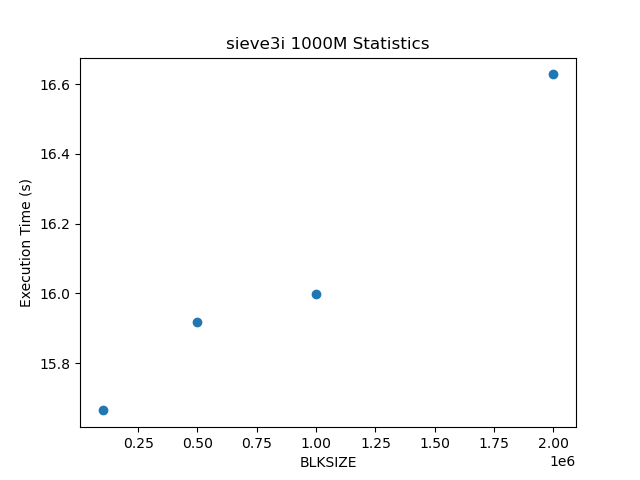
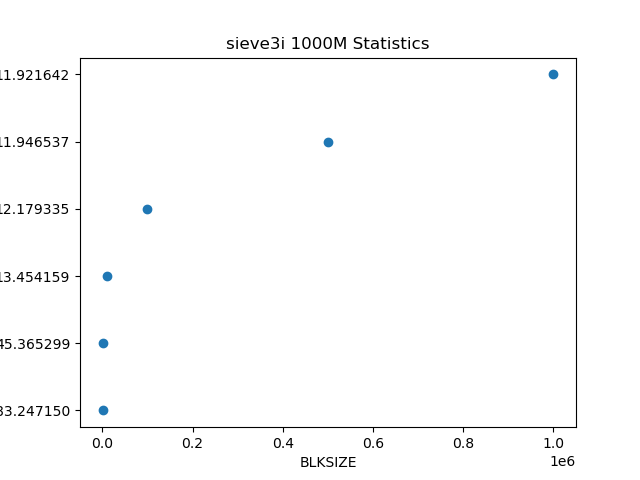
sieve3 working good but not good enough

diff --git a/assignments/3/sieve4.c b/assignments/3/sieve4.c
@@ -14,9 +14,21 @@
 #include <math.h>
 #include "timer.h"
 
+#define minn(x,y) (((x) <= (y)) ? (x) : (y))
+
+int FMIB(long index, long prime) {
+    if (index ==  prime)
+        return index + prime;
+    long remainder = index % prime;
+    if (remainder)
+        return index - remainder + prime;
+    return index;
+}
+
 int main(int argc, char **argv) {
 
    long N  = 100;
+   long BLKSIZE = 100000;
 
    char *mark;
 
@@ -30,22 +42,12 @@ int main(int argc, char **argv) {
    double time;
 
    if ( argc > 1 ) N  = atoi(argv[1]);
-
-   // N will get cut in half to save memory
-   long problem_size = N;
+   if ( argc > 2 ) BLKSIZE = atoi(argv[2]);
 
    /* Start Timer */
 
    initialize_timer ();
    start_timer();
-
-   // Only store odds
-   // Half memory if N % 2 == 0
-   // Half memory +1 if N is odd
-   if (N % 2 == 0)
-       N = (N/2);
-   else
-       N = (N/2 + 1);
 
    // +1 for null character 
    size = (N+1)*sizeof(char);
@@ -58,43 +60,45 @@ int main(int argc, char **argv) {
    // We want to skip the value 1 (results start from 2)
    mark[0] = 1;
 
-   count = 1;
-   long sqrt_p_size = sqrt(problem_size);
-   for (int k = 3; k <= sqrt_p_size; k += 2) { // Iterate to sqrt(n)
+   long sqrt_N = sqrt(N);
+   for (long k = 3; k <= sqrt_N;) { // Iterate to sqrt(n)
         // We only want to find primes less than sqrt(N)
         // We stride by 2*k because odd + odd = even
         // And odd + even = odd, thereby skipping all even multiples
         // All primes are odd aside from 2
         #pragma omp parallel for
-        for (int prime = k*k; prime <= sqrt_p_size; prime += 2*k) {
-            mark[prime/2] = 1;
-            ++count;
-        }
+        for (long prime = k*k; prime <= sqrt_N; prime += 2*k) mark[prime] = 1;
         
         // Get next odd prime (unmarked value)
-        while (mark[k/2]) k += 2; 
+        k += 2;
+        while (mark[k]) k += 2;
    }
 
 
    /*number of primes*/
+   long primes[sqrt_N]; // (int *) malloc(count * sizeof(int));
+   primes[0] = 2; // Our algorithm doesn't include 2 because it's even
    // Count starts from 1 to include 2
    // i starts from 3 so that we only count odds
-   printf("There are %ld primes for sqrt(N).\n", count);
-   int* primes = (int *) malloc(count * sizeof(int));
-   primes[0] = 2; // Our algorithm doesn't include 2 because it's even
-
    count = 1;
-   for(i = 3; i <= sqrt_p_size; i+=2){
-        if(mark[i/2] == 0) {
-        	printf("\t prime %ld\n", i );
-            primes
+   for(i = 3; i <= sqrt_N; i+=2){
+        if(mark[i] == 0) {
+            primes[count] = i;
+            count++;
         }
    }
 
-   
-   /* end of preamble */
 
-   free(primes);
+   /* end of preamble */
+   int prime;
+   for (int j = 0; j < count; j++) {
+       prime = primes[j];
+       for (int ii = sqrt_N; ii < N; ii += BLKSIZE) {
+           for (int i = FMIB(ii, prime); i <= minn(ii+BLKSIZE, N); i += prime) {
+               mark[i] = 1;
+           }
+       }
+   } 
 
    /* stop timer */
    stop_timer();
@@ -103,21 +107,18 @@ int main(int argc, char **argv) {
    /*number of primes*/
    // Count and i are magic numbers
    count = 1;
-   for(i = 2; i <= N; i+=1){
-        if(mark[i] == 0) {
-        	//  printf("\t prime %ld  \n",i );
-        	++count;
-        }
-
+   for(i = 3; i <= N; i+=2){
+        if(mark[i] == 0) ++count;
    }
-   printf("There are %ld primes less than or equal to %ld\n", count, problem_size);
+
+   printf("There are %ld primes less than or equal to %ld\n", count, N);
    /* print results */
    printf("First three primes:");
    j = 1;
    printf("%d ", 2);
-   for ( i=3 ; i <= problem_size && j < 10; i+=2 ) {
-      if (mark[i/2]==0){
-            printf("%ld ", i);
+   for ( i=3 ; i <= N && j < 3; i+=2 ) {
+      if (mark[i]==0){
+            printf("%ld, ", i);
             ++j;
       }
    }
@@ -125,9 +126,9 @@ int main(int argc, char **argv) {
 
    printf("Last three primes:");
    j = 0;
-   n=(problem_size%2?problem_size:problem_size-1);
+   n=(N%2?N:N-1);
    for (i = n; i > 1 && j < 3; i-=2){
-     if (mark[i/2]==0){
+     if (mark[i]==0){
         printf("%ld ", i);
         j++;
      }

diff --git a/assignments/3/sieve3.c b/assignments/3/sieve3.c
@@ -28,7 +28,7 @@ int FMIB(long index, long prime) {
 int main(int argc, char **argv) {
 
    long N  = 100;
-   long BLKSIZE = 10;
+   long BLKSIZE = 100000;
 
    char *mark;
 
@@ -76,12 +76,10 @@ int main(int argc, char **argv) {
 
 
    /*number of primes*/
-   long primes[sqrt_N]; // (int *) malloc(count * sizeof(int));
-   primes[0] = 2; // Our algorithm doesn't include 2 because it's even
-   // Count starts from 1 to include 2
-   // i starts from 3 so that we only count odds
-   count = 1;
-   for(i = 3; i <= sqrt_N; i+=2){
+   long primes[sqrt_N]; 
+   primes[0] = 2;                   // Don't include 2 because it's even
+   count = 1;                       // Count starts from 1 to account for  2
+   for(i = 3; i <= sqrt_N; i+=2){   // i starts from 3 as we only count odds
         if(mark[i] == 0) {
             primes[count] = i;
             count++;
@@ -90,11 +88,11 @@ int main(int argc, char **argv) {
 
 
    /* end of preamble */
-   int prime;
-   for (int j = 0; j < count; j++) {
-       prime = primes[j];
-       for (int ii = sqrt_N; ii < N; ii += BLKSIZE) {
-           for (int i = FMIB(ii, prime); i <= minn(ii+BLKSIZE, N); i += prime) {
+   long prime;
+   for (int ii = sqrt_N; ii < N; ii += BLKSIZE) {
+        for (int j = 0; j < count; j++) {
+           prime = primes[j];
+           for (long i = FMIB(ii, prime); i <= minn(ii+BLKSIZE, N); i += prime) {
                mark[i] = 1;
            }
        }
@@ -115,10 +113,10 @@ int main(int argc, char **argv) {
    /* print results */
    printf("First three primes:");
    j = 1;
-   printf("%d, ", 2);
+   printf("%d ", 2);
    for ( i=3 ; i <= N && j < 3; i+=2 ) {
       if (mark[i]==0){
-            printf("%ld, ", i);
+            printf("%ld ", i);
             ++j;
       }
    }
